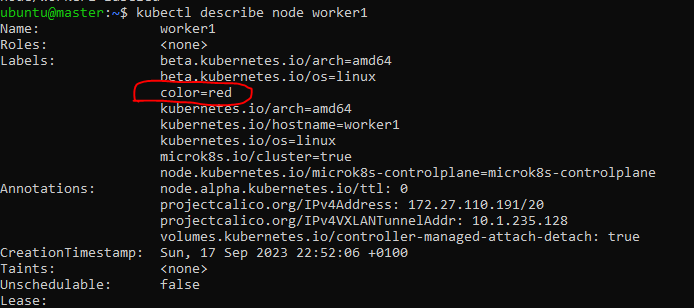
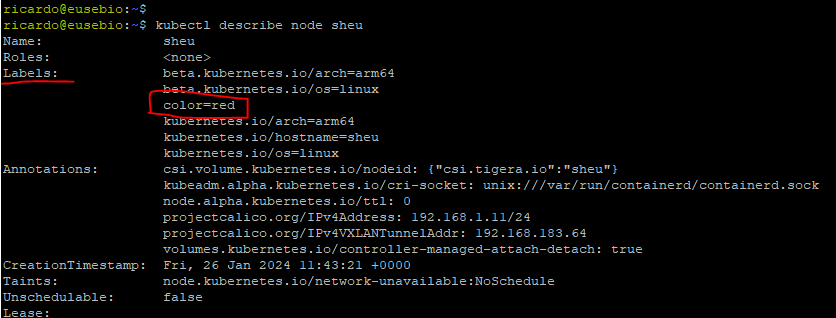
update affinity demo

Changed region(s): [[0.0, 0.0, 0.9986, 1.0], [0.0, 0.5844, 0.121, 0.6429], [0.0, 0.4968, 0.121, 0.5552]]

diff --git a/02-Scheduling/Node Affinity/demo.md b/02-Scheduling/Node Affinity/demo.md
@@ -1,21 +1,53 @@
-1º How many labels exist on worker1 node ?
+## DEMO
 
+### 1. How many labels exist on node SHEU ?
+```
+kubectl describe node sheu
+```
 ![Alt Text](/00-images/Scheduling/affinity.PNG)
-- 7 labels
+- R: 5 labels
 
-2º Apply a label color=red to node worker1
+### 2. What is the value set to the label "beta.kubernetes.io/arch" on node SHEU
+```
+kubectl describe node sheu
+```
+![Alt Text](/00-images/Scheduling/affinity9.PNG)
+- R: arm64
 
+
+### 3. Apply a label color=red to node SHEU
+```
+kubectl label node sheu color=red
+```
 ![Alt Text](/00-images/Scheduling/affinity1.PNG)
 
+```
+kubectl describe node sheu
+```
 ![Alt Text](/00-images/Scheduling/affinity2.PNG)
-- the label color=red is on node worker1
+- the label color=red is on node sheu
 
-3º Create a deployment named red with 3 replicas.
+### 4. Create a deployment named "affinity" with 3 replicas.
+```
+#only output
+kubectl create deployment affinity --image=nginx --replicas=3 --dry-run=client -o yaml
 
+kubectl create deployment affinity --image=nginx --replicas=3 --dry-run=client -o yaml > affinity.yaml
+```
 ![Alt Text](/00-images/Scheduling/affinity3.PNG)
 
+```
+kubectl apply -f affinity.yaml
+```
 ![Alt Text](/00-images/Scheduling/affinity5.PNG)
 - As we can see a deployment with 3 replicas has been created
+
+```
+kubectl get deploy
+
+kubectl get pods
+```
+![Alt Text](/00-images/Scheduling/affinity10.PNG)
 
 4º Which nodes can the pods for the red deployment be placed on?
 
